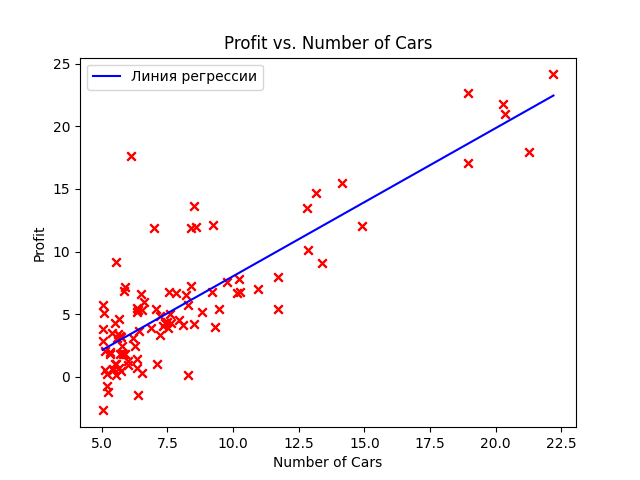
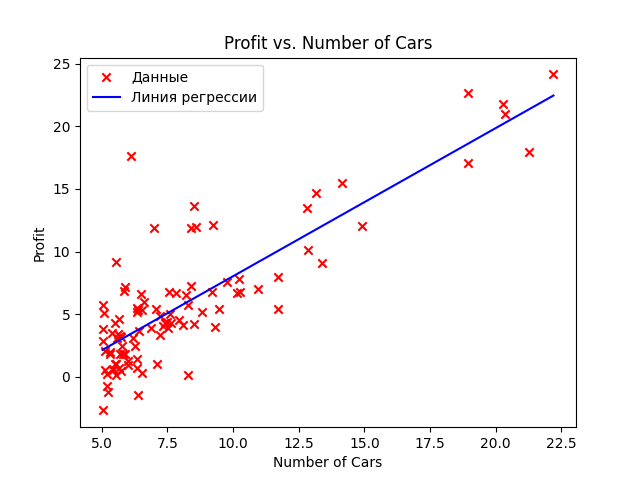
d

diff --git a/lab1/main.py b/lab1/main.py
@@ -4,65 +4,65 @@ import matplotlib.pyplot as plt
 
 def warm_up_exercise(n):
     A = np.eye(n)
-
     A_manual = [[0 for _ in range(n)] for i in range(n)]
     for i in range(n):
         A_manual[i][i] = 1
-
     return A, A_manual
 
-def plot_data(X, y, theta=None, filename='1.png'):
-    plt.scatter(X, y, marker='x', color='r')
+def plot_data(X, y, theta=None, predictions=None, filename='1.png'):
+    plt.scatter(X, y, marker='x', color='r', label='Данные')
     plt.xlabel('Number of Cars')
     plt.ylabel('Profit')
     plt.title('Profit vs. Number of Cars')
 
-    if theta is not None:
-        x_line = np.linspace(min(X), max(X), len(X))
-        y_line = theta[0] + theta[1] * x_line
+    max_ = max(X)
+    if predictions is not None:
+        for pred in predictions:
+            max_ = max(max_, pred[1])
 
+
+    if theta is not None:
+        x_line = np.linspace(min(X), max_, len(X))
+        y_line = theta[0] + theta[1] * x_line
         plt.plot(x_line, y_line, color='b', label='Линия регрессии')
-        plt.legend()
+
+    # Если есть предсказания, отобразим их
+    if predictions is not None:
+        for prediction in predictions:
+            plt.scatter(prediction[0], prediction[1], color='g', label='Предсказанная прибыль', edgecolor='black')
+
+    plt.legend()
     plt.savefig(filename)
+    plt.clf()  # Очищаем текущую фигуру после сохранения
 
 
 def compute_cost(X, y, theta):
-    # # Векторизированный расчет стоимости
     m = len(y)
     predict = np.dot(X, theta)
     errors = predict - y
     J = (1 / (2 * m)) * np.dot(errors, errors)
     return J
 
-
 def compute_cost_by_element(X, Y, theta):
     m = len(Y)  # Число примеров
     total_cost = 0
 
     for i in range(m):
-
         error = 0
         for j in range(len(theta)):  # Для каждого параметра
             error += ((theta[j] * X[i][j]) - Y[i] / len(theta))
 
-        # error -= Y[i]
-
-        # Суммируем квадрат ошибки
         total_cost += error ** 2
 
-    # Возвращаем стоимость (среднеквадратичная ошибка)
     cost = (1 / (2 * m)) * total_cost
     return cost
-
 
 def gradient_descent(X, y, theta, alpha, iterations):
     m = len(y)
     for i in range(iterations):
         # Векторизированный шаг градиентного спуска
         theta = theta - (alpha / m) * (X.T.dot(X.dot(theta) - y))
-
     return theta
-
 
 def gradient_descent_by_element(X, y, theta, alpha, iterations):
     m = len(y)  # Число примеров
@@ -77,15 +77,10 @@ def gradient_descent_by_element(X, y, theta, alpha, iterations):
 
             # Для каждого примера
             for i in range(m):
-
                 error = 0
                 for k in range(0, n):
-                    error += (theta[k] * X[i][k] - y[i] / n)  # Умножаем соответствующие элементы высчитываем ошибку
+                    error += (theta[k] * X[i][k] - y[i] / n)
 
-                # Ошибка для i-го примера
-                # error -= y[i]
-
-                # Суммируем ошибки для каждого параметра
                 sum_error += error * X[i][j - 1] if j > 0 else error
 
             # Обновляем параметр theta[j]
@@ -95,39 +90,43 @@ def gradient_descent_by_element(X, y, theta, alpha, iterations):
 
     return theta
 
-
 def work(theta, theta_el):
     print("Программа прогнозирования прибыли запущена.")
+    profits = []
+    predictions = []  # Список для хранения предсказаний
     while True:
         user_input = input("Введите количество автомобилей (или 'exit' для выхода): ")
         if user_input.lower() == 'exit':
             break
         try:
             num_cars = float(user_input)
-            profit = theta[0] + theta[1] * num_cars
-            print(f'Предсказанная прибыль для {num_cars} автомобилей (векторный способ): {profit}')
+            profit_vectorized = theta[0] + theta[1] * num_cars
+            print(f'Предсказанная прибыль для {num_cars} автомобилей (векторный способ): {profit_vectorized}')
 
-            profit = theta_el[0] + theta[1] * num_cars
-            print(f'Предсказанная прибыль для {num_cars} автомобилей (поэлементный способ): {profit}')
+            profit_elementwise = theta_el[0] + theta_el[1] * num_cars
+            print(f'Предсказанная прибыль для {num_cars} автомобилей (поэлементный способ): {profit_elementwise}')
+
+            profits.append(profit_vectorized)
+            predictions.append([num_cars, profit_vectorized])  # Добавляем предсказание
 
         except ValueError:
             print("Пожалуйста, введите корректное значение.")
 
+    return predictions  # Возвращаем только предсказания
 
 def main():
-
     print(warm_up_exercise(int(input("Введите размер матрицы: "))))
     data = np.loadtxt('ex1data1.txt', delimiter=',')
     X = data[:, 0]  # Количество автомобилей
     y = data[:, 1]  # Прибыль
-    m = len(y)  # Число примеров
+    m = len(y)      # Число примеров
 
     plot_data(X, y)
 
     X_original = X.copy()
 
     X = np.c_[np.ones(m), X]
-    theta = np.zeros(2) # Инициализируем параметры theta
+    theta = np.zeros(2)  # Инициализируем параметры theta
 
     # Вычисление начальной стоимости
     print(f'Initial cost: {compute_cost(X, y, theta)}')
@@ -139,14 +138,15 @@ def main():
     theta = gradient_descent(X, y, theta, alpha, iterations)
 
     print(f'Theta gradient descent: {theta}')
-    plot_data(X_original, y, theta, '2.png')
-
+    plot_data(X_original, y, theta, None,'2.png')
 
     theta_el = gradient_descent_by_element(X, y, theta, alpha, iterations)
     print(f'Theta gradient descent by element: {theta_el}')
 
-    work(theta, theta_el)
+    predictions = work(theta, theta_el)
 
+    # Построение третьего графика с предсказанными значениями
+    plot_data(X_original, y, theta, predictions, '3.png')
 
 if __name__ == "__main__":
     main()
